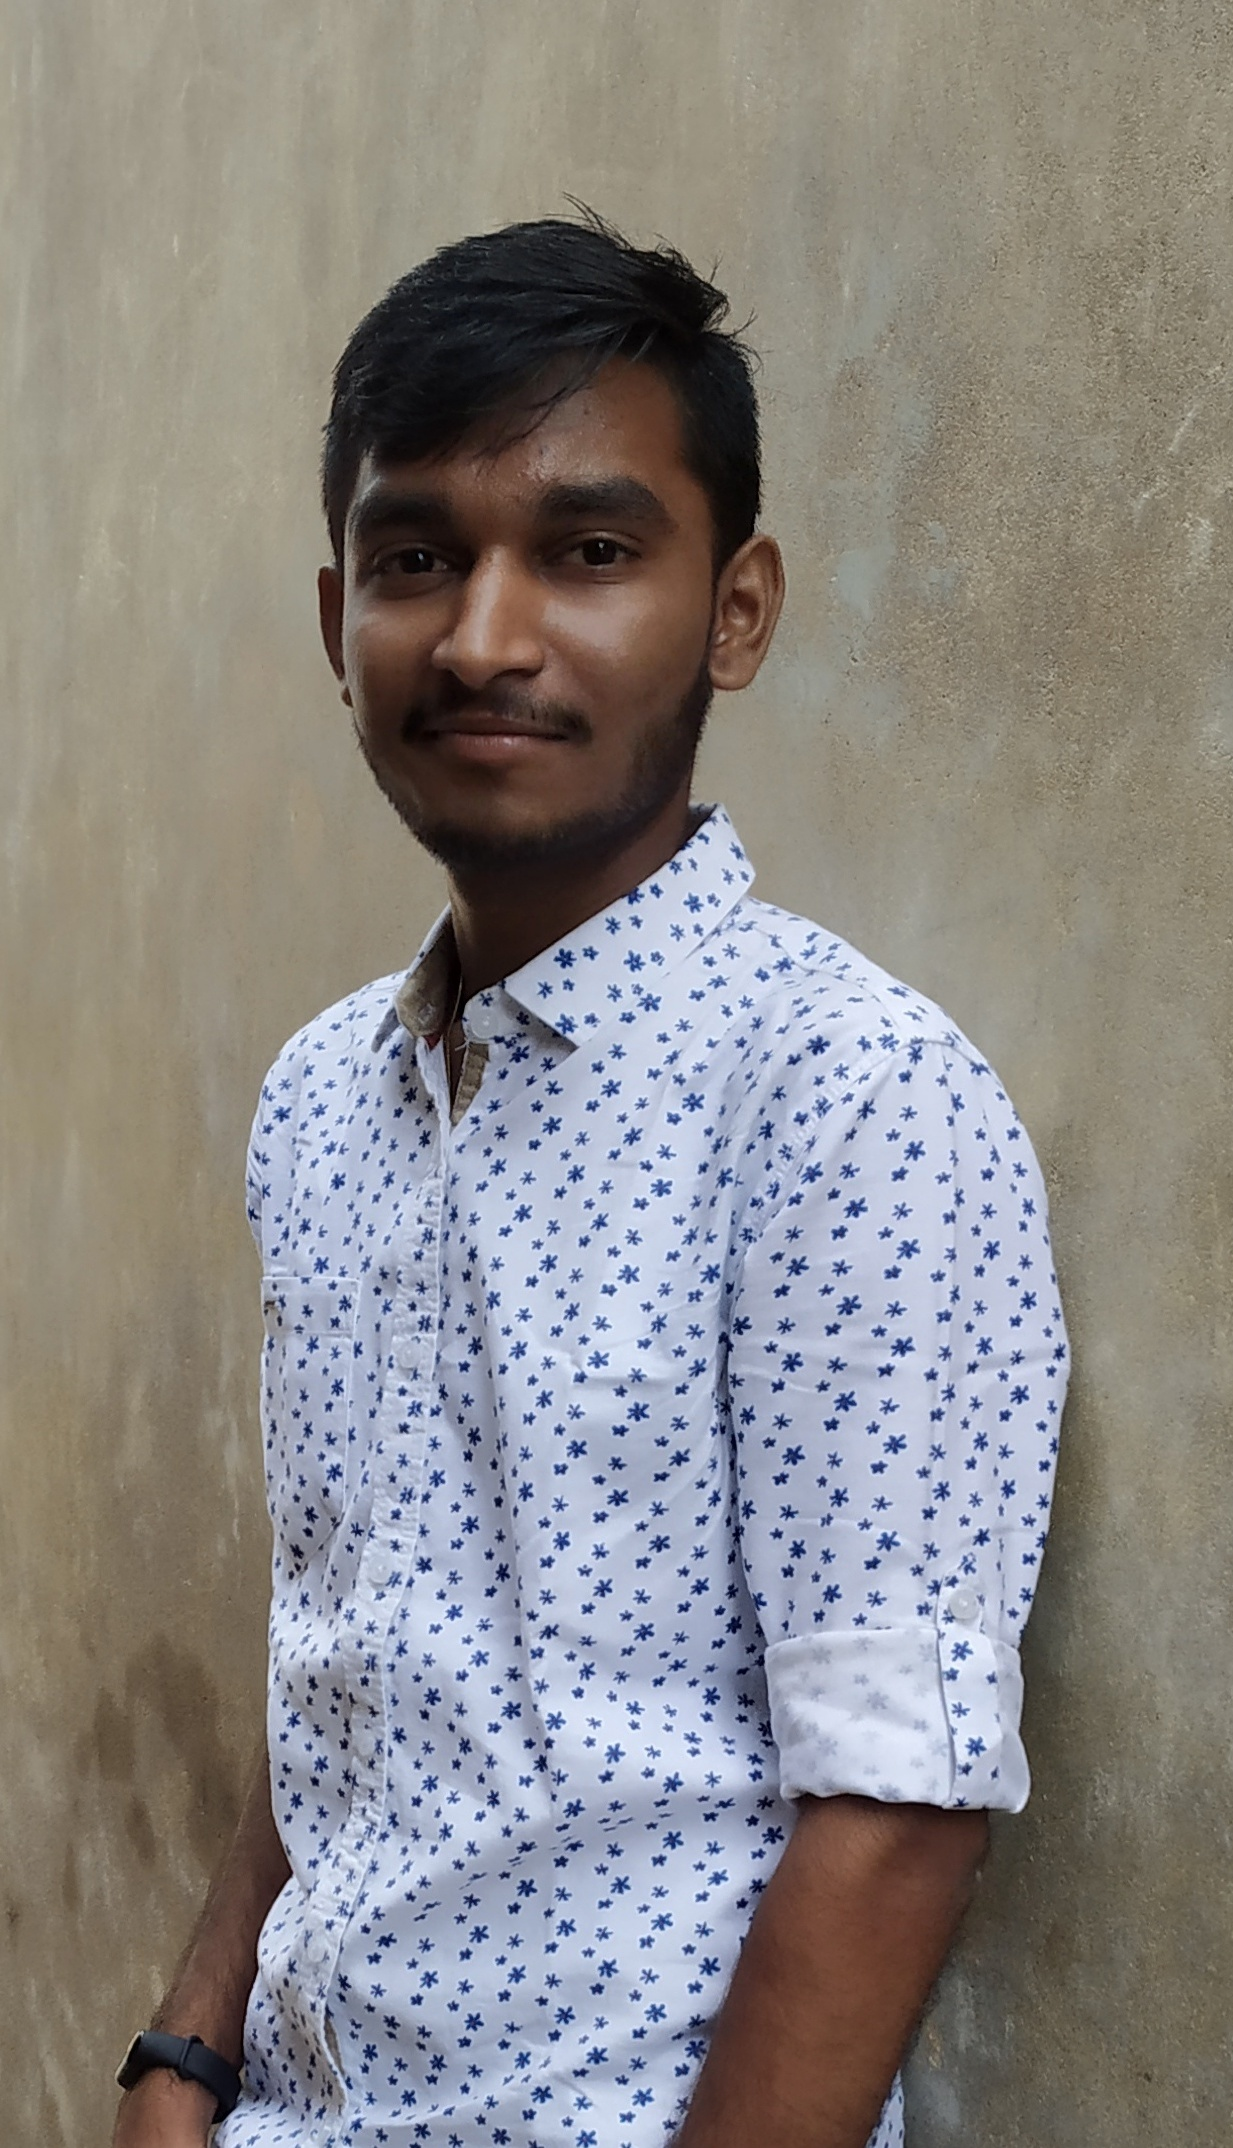
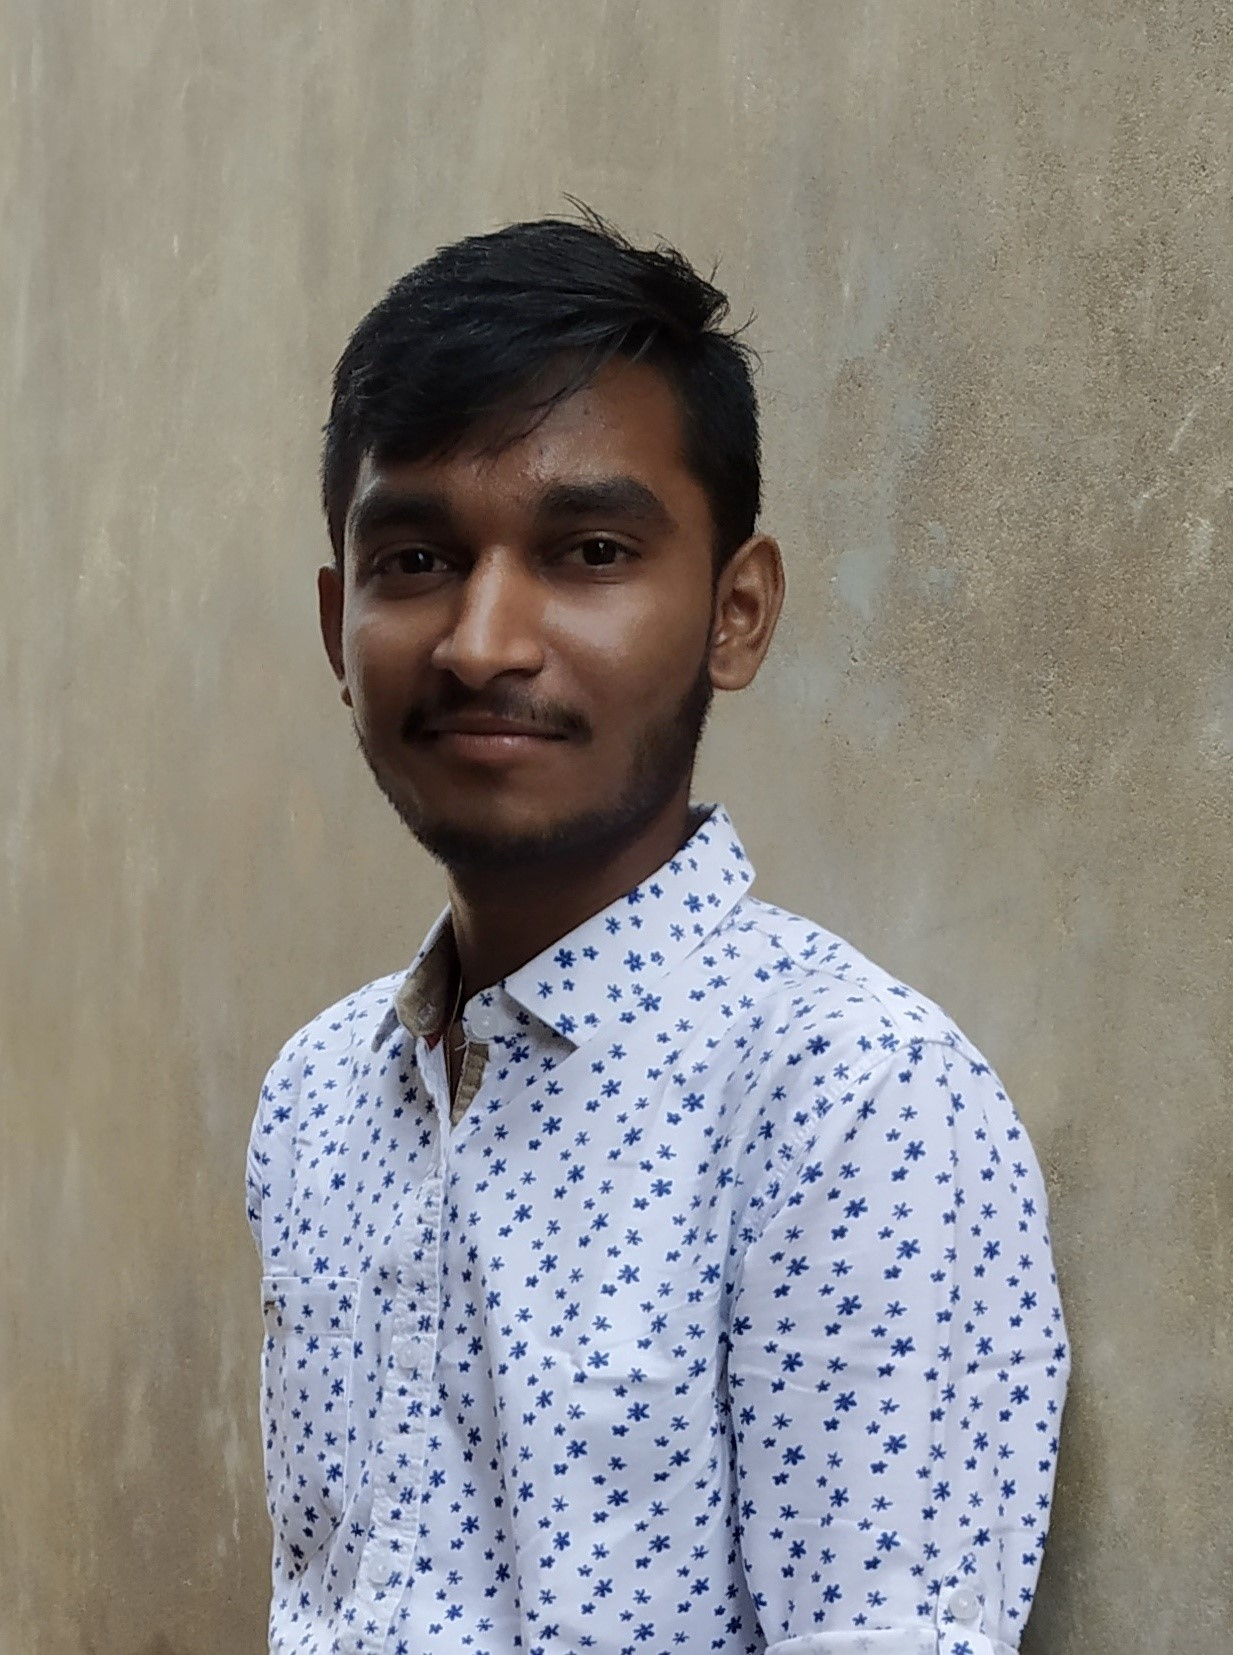
Many changes!!
Team page pics updated, FAQ updated, added sublines, added COC

diff --git a/fss/index.html b/fss/index.html
@@ -83,9 +83,14 @@
             </div>
             <div class="nav__item hide__mobile">
               <li>
-              <a href="#faq">Faq</a>
+              <a href="#faq">FAQ</a>
               </li>
           </div>
+          <div class="nav__item hide__mobile">
+            <li>
+            <a href="https://devscript.org/fss/coc.pdf">Code of Conduct</a>
+            </li>
+        </div>
         </div>
           
           <div class="social-icons hide__mobile">
@@ -156,7 +161,10 @@
                 <p>The service/product you have chosen is the best you must stand out with!</p>
             </div>
             <div class="hero-div-3">
-                <p class="register-p">DevScript presents you the most eminent platform and an exhilarating experience through Full Stack Squared to learn from the industry leaders why their services are the topmost in the business!</p>
+                <p class="register-p">DevScript presents you with the most prominent platform to accelerate and elevate the knowledge of Full-stack development among professionals and to encourage young minds. 
+                  </br>
+                  Surround yourself with the biggest network and embrace the exhilarating experience through "Full-Stack-Squared" to learn from the industry experts why their services are the topmost in the business!
+                  </p>
               <!-- <div class="reg-anchor"><a href="https://forms.gle/r4wzgDjdFuHbH9rB9" class="register-btn">Register</a></div> -->
               <a class="new-btn" href="https://forms.gle/r4wzgDjdFuHbH9rB9">
                 <span></span>
@@ -205,6 +213,8 @@
         <div class="ThemeName">
           <img src="https://fontmeme.com/permalink/211101/097ae7977e1c29e9ad3fc0ff9c71cca7.png" alt="squid-game-font">
         </div>
+
+        <p style="font-style: italic;font-size: 30px;font-family: 'Lucida Sans', 'Lucida Sans Regular', 'Lucida Grande', 'Lucida Sans Unicode', Geneva, Verdana, sans-serif;">A blend of superpowers you’ll gain when integrating these technologies! </p></br>
         <div class="ThemeContainer ">
         <div class="ThemeCard">
             <img class="ThemeImg" src="images/001.png" />
@@ -262,7 +272,7 @@
             </p>
         </div>
         <div class="ThemeCard">
-          <img class="ThemeImg" src="images/006.png" />
+          <img class="ThemeImg" src="images/008.png" />
           <h2 class="Topic">Crypto and Web3</h2>
           <p class="Description">When the globe is on a mission to accelerate the transition to cryptocurrency, it's time for us to change. Hear from the experts how people <span style="background-color: black" class="dots">...</span> 
           <span class="more">see it as an alternative investment pick out of stocks and bonds. Integrating decentralization based on blockchains, let's sail into the world of Web3 that provides data security and privacy, with zero risk of internet hacking.</span>
@@ -474,7 +484,7 @@
       </div>
 
 
-      <!-------------------sponsor-section------------------->
+      <!-- -----------------sponsor-section----------------- -->
 
     <div class="sponsors-section">
       <div class="sponsor-list">
@@ -521,20 +531,9 @@
                   <a href="https://www.agora.io/en/" target="_blank"> <img  src="./sponsors/agoralightblue-1.png" loading="lazy"  >
                   </a>
               </div>
-              <!-- <div class="sponsor-div2">
-                  <a href="https://mergeintern.com/" target="_blank" > <img  src="./sponsors/Merge.png" loading="lazy"  >
-                  </a>
-              </div>
-              <div class="sponsor-div2">
-                  <a href="https://commudle.com/" target="_blank"> <img src="./sponsors/commudle.png" loading="lazy">
-                  </a>
-              </div>
-              <div class="sponsor-div2">
-                  <a href="https://codingninjas.com/" target="_blank"> <img src="./sponsors/codingNinja.png" loading="lazy"></a>
-              </div> -->
           </div>
 
-          <div class="heading">
+           <div class="heading">
               <div class="line1"></div>
               <h1 class="title">Maker</h1>
               <div class="line2"></div>
@@ -544,8 +543,8 @@
                   <a href="https://www.stickermule.com/" target="_blank"> <img  src="./sponsors/stickerMule.png" loading="lazy"  >
                   </a>
               </div>
-              <div class="sponsor-div1">
-                  <a href="https://hackclub.com/" target="_blank" > <img  src="./sponsors/Hack_Club_Flag_Standalone.svg.png" loading="lazy"  >
+              <!-- <div class="sponsor-div1">
+                  <a href="https://hackclub.com/" target="_blank" > <img  src="./sponsors/HackClub.png" loading="lazy"  >
                   </a>
               </div>
               <div class="sponsor-div1">
@@ -554,12 +553,12 @@
               </div>
               <div class="sponsor-div1 jaipur">
                   <a href="https://www.awsugjaipur.tech/" target="_blank"> <img src="./sponsors/aws ug jaipur.png" loading="lazy"></a>
-              </div>
-          </div>
+              </div>  -->
+          </div> 
       </div>
   </div>
 
-<!---------faq------------->
+<!-- -------faq----------- -->
 <div id="faq">
   <div class="faq-title">
     <img class="faq-title-image" src="https://fontmeme.com/permalink/211207/7181df996cfd327b4680dcde2e773acd.png" alt="squid-game-font" >
@@ -569,11 +568,6 @@
       <button class="accordion">What is DevScript?</button>
     <div class="panel">
       <p>DevScript is a technical community run by a group of Developers to steer an intense taste of technology in enthusiasts to thrive in the real world.</p>
-    </div>
-    
-    <button class="accordion">What is Full-Stack-Squared, by who and to whom?</button>
-    <div class="panel">
-      <p>Full-Stack-Squared is an Annual Flagship event of DevScript. Just like DWoC, where we achieved 3.7k+ participants, this year we have come up with a platform to uplift tech geeks who are curious about Full-stack Development. As the event is accessible to all, be it a learner, or an expert in the field, here we strive to create an impact of technology and help developers to understand, why some products or services give an edge over others by getting acquainted with new tools and trends in the domain and Let them choose the best for them.</p>
     </div>
     
     <button class="accordion">Is there any cost for joining this conference?</button>
@@ -593,28 +587,24 @@
     <div class="panel">
       <p> If you succeed in any of the contests, just celebrate your win! We will reach out to you with your rewards.</p>
     </div>
-    
+    <button class="accordion">How can Event Ambassadors check their scores?</button>
+    <div class="panel">
+      <p>Coming Soon......</p>
+    </div>
     <button class="accordion">What if I have more questions?</button>
     <div class="panel">
       <p> Feel free to ask any queries by mailing us at <a style ="font-weight: bold;" href="mailto: fullstacksquared@gmail.com">fullstacksquared@gmail.com</a> or you can also ping us on any of our socials.</p>
     </div>
     
-    <button class="accordion">What is the Code of Conduct for Conference?</button>
-    <div class="panel">
-      <p>Coming Soon.....</p>
-    </div>
     
-    <button class="accordion">How can Event Ambassadors check their scores?</button>
-    <div class="panel">
-      <p>Coming Soon......</p>
-    </div>
     </div>
   </div>
 </div>
 
 
-<!---------footer------------->
-
+<!---------footer----------- -->
+</br>
+<p style="font-style: italic;font-size: 30px;font-family: 'Lucida Sans', 'Lucida Sans Regular', 'Lucida Grande', 'Lucida Sans Unicode', Geneva,Verdana, sans-serif;text-align: center;"> So, why wait? Join us to explore and exhibit the essential skills in Full-Stack Development!! </p></br>
 
 <footer class="footer-main">
   <div class="footer-txt">

diff --git a/fss/team.html b/fss/team.html
@@ -86,7 +86,7 @@
             </div>
             <div class="nav__item hide__mobile">
               <li>
-              <a href="index.html#faq">Faq</a>
+              <a href="index.html#faq">FAQ</a>
               </li>
           </div>
         </div>
@@ -137,7 +137,6 @@
         </div>
       </header>
 
-     
         <div class="team_section">
             <div class="team-title">
             
@@ -145,10 +144,10 @@
             <div class="team-list">
                     <div id="member-card" data-aos="fade-right">
                         <div class="image-div ">
-                            <a href="" target="_blank" rel="noreferrer"> <img id="team-image" src="https://devscript.org/assets/img/team/Vedant%20Khairnar.jpg" alt=" not found"> </a>
+                            <a href="" target="_blank" rel="noreferrer"> <img id="team-image" src="images/Vedant Khairnar.jpg" alt=" not found"> </a>
                         </div>
                         <span id="member-name">Vedant Khairnar</span>
-                        <span id="member-role">Founder</span>
+                        <span id="member-role">Lead Organiser</span>
                         <div class="socials">
                             <a href="https://twitter.com/VedantKhairnar3"><i class="fab fa-twitter"></i></a>
                             <a href="https://www.linkedin.com/in/vedantkhairnar/"><i class="fab fa-linkedin-in"></i></a>
@@ -157,7 +156,7 @@
                     </div>
                     <div id="member-card" data-aos="fade-right">
                         <div class="image-div ">
-                            <a href="" target="_blank" rel="noreferrer"> <img id="team-image" src="https://devscript.org/assets/img/team/Shreya%20Santoshwar%20alt.jpg" alt=" not found"> </a>
+                            <a href="" target="_blank" rel="noreferrer"> <img id="team-image" src="images/Shreya Santoshwar alt.jpg" alt=" not found"> </a>
                         </div>
                         <span id="member-name">Shreya Santoshwar</span>
                         <span id="member-role">Lead Organiser</span>
@@ -239,30 +238,6 @@
                             <a href="https://github.com/sindhavdipesh"><i class="fab fa-github"></i></a>
                         </div>
                     </div>
-                    <!-- <div id="member-card" data-aos="fade-right">
-                        <div class="image-div ">
-                            <a href="" target="_blank" rel="noreferrer"> <img id="team-image" src="./images/download.jpg" alt=" not found"> </a>
-                        </div>
-                        <span id="member-name">Anonymous</span>
-                        <span id="member-role">Lead Organizer</span>
-                        <div class="socials">
-                            <a href="#"><i class="fab fa-twitter"></i></a>
-                            <a href="#"><i class="fab fa-linkedin-in"></i></a>
-                            <a href="#"><i class="fab fa-github"></i></a>
-                        </div>
-                    </div>
-                    <div id="member-card" data-aos="fade-right">
-                        <div class="image-div ">
-                            <a href="" target="_blank" rel="noreferrer"> <img id="team-image" src="./images/download.jpg" alt=" not found"> </a>
-                        </div>
-                        <span id="member-name">Anonymous</span>
-                        <span id="member-role">Lead Organizer</span>
-                        <div class="socials">
-                            <a href="#"><i class="fab fa-twitter"></i></a>
-                            <a href="#"><i class="fab fa-linkedin-in"></i></a>
-                            <a href="#"><i class="fab fa-github"></i></a>
-                        </div>
-                    </div> -->
             </div>
         </div>
     
